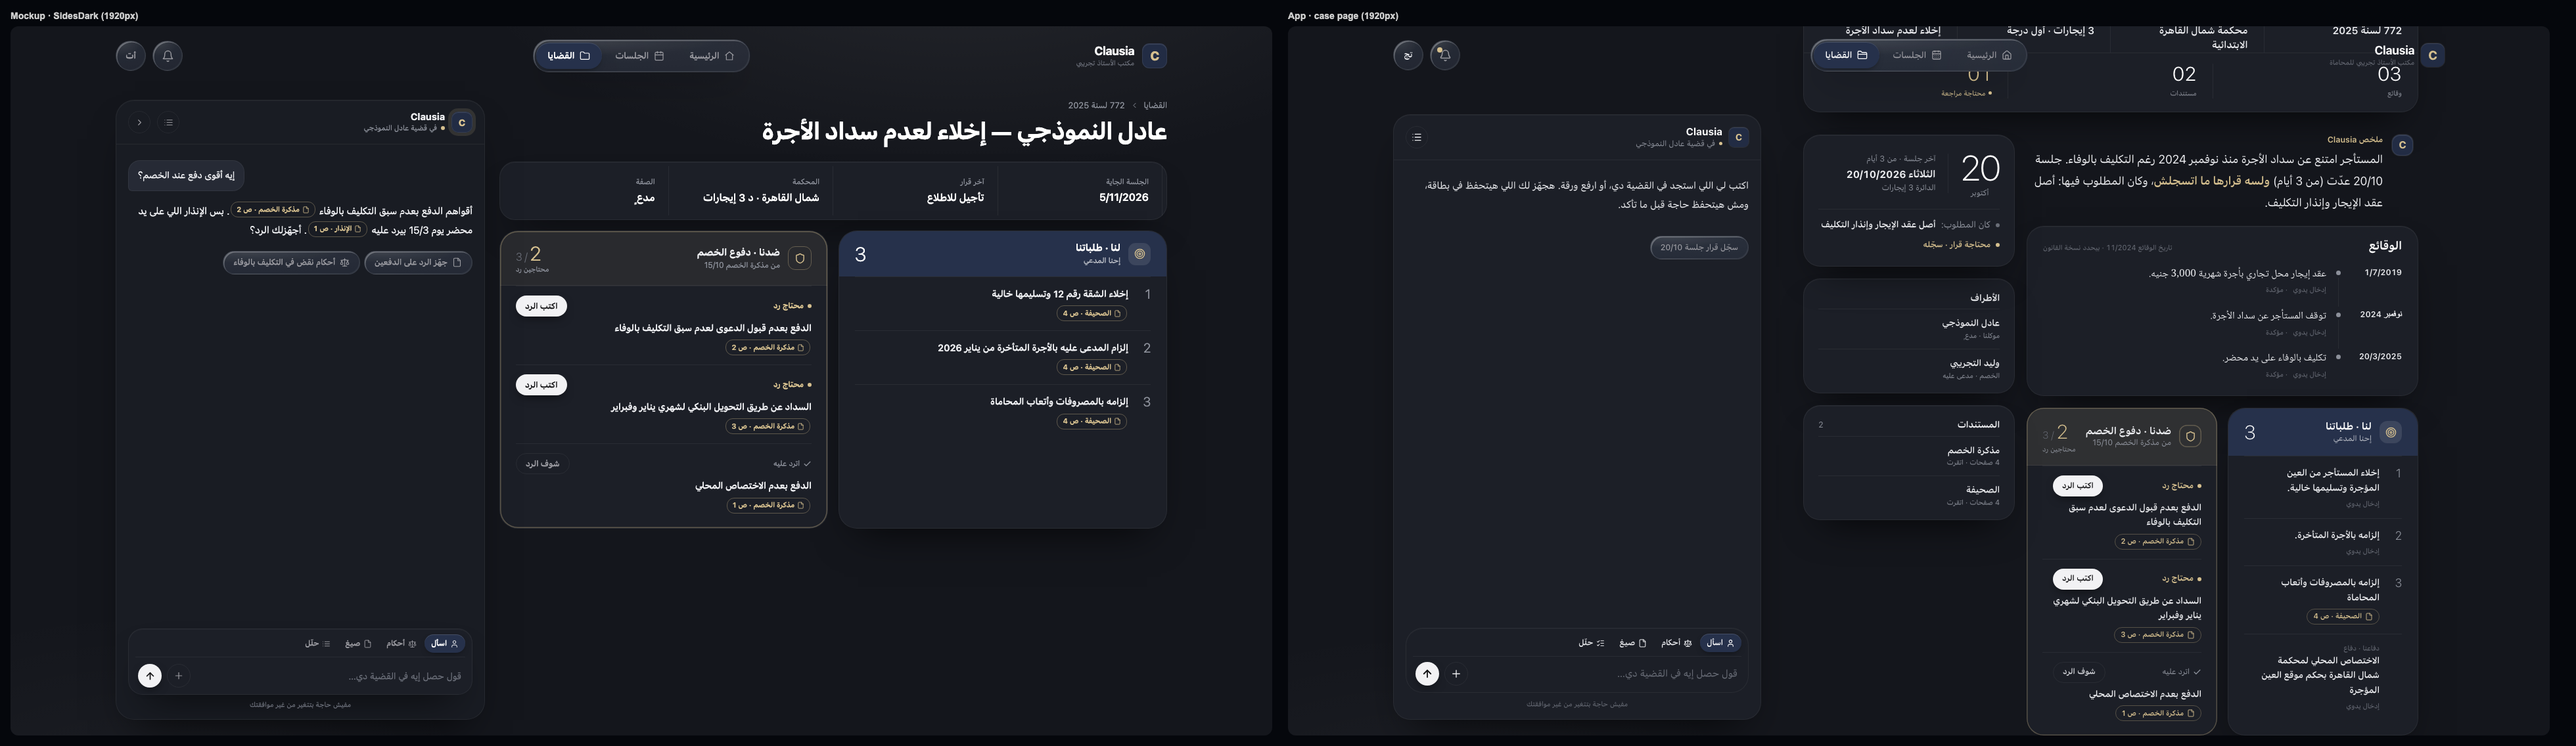
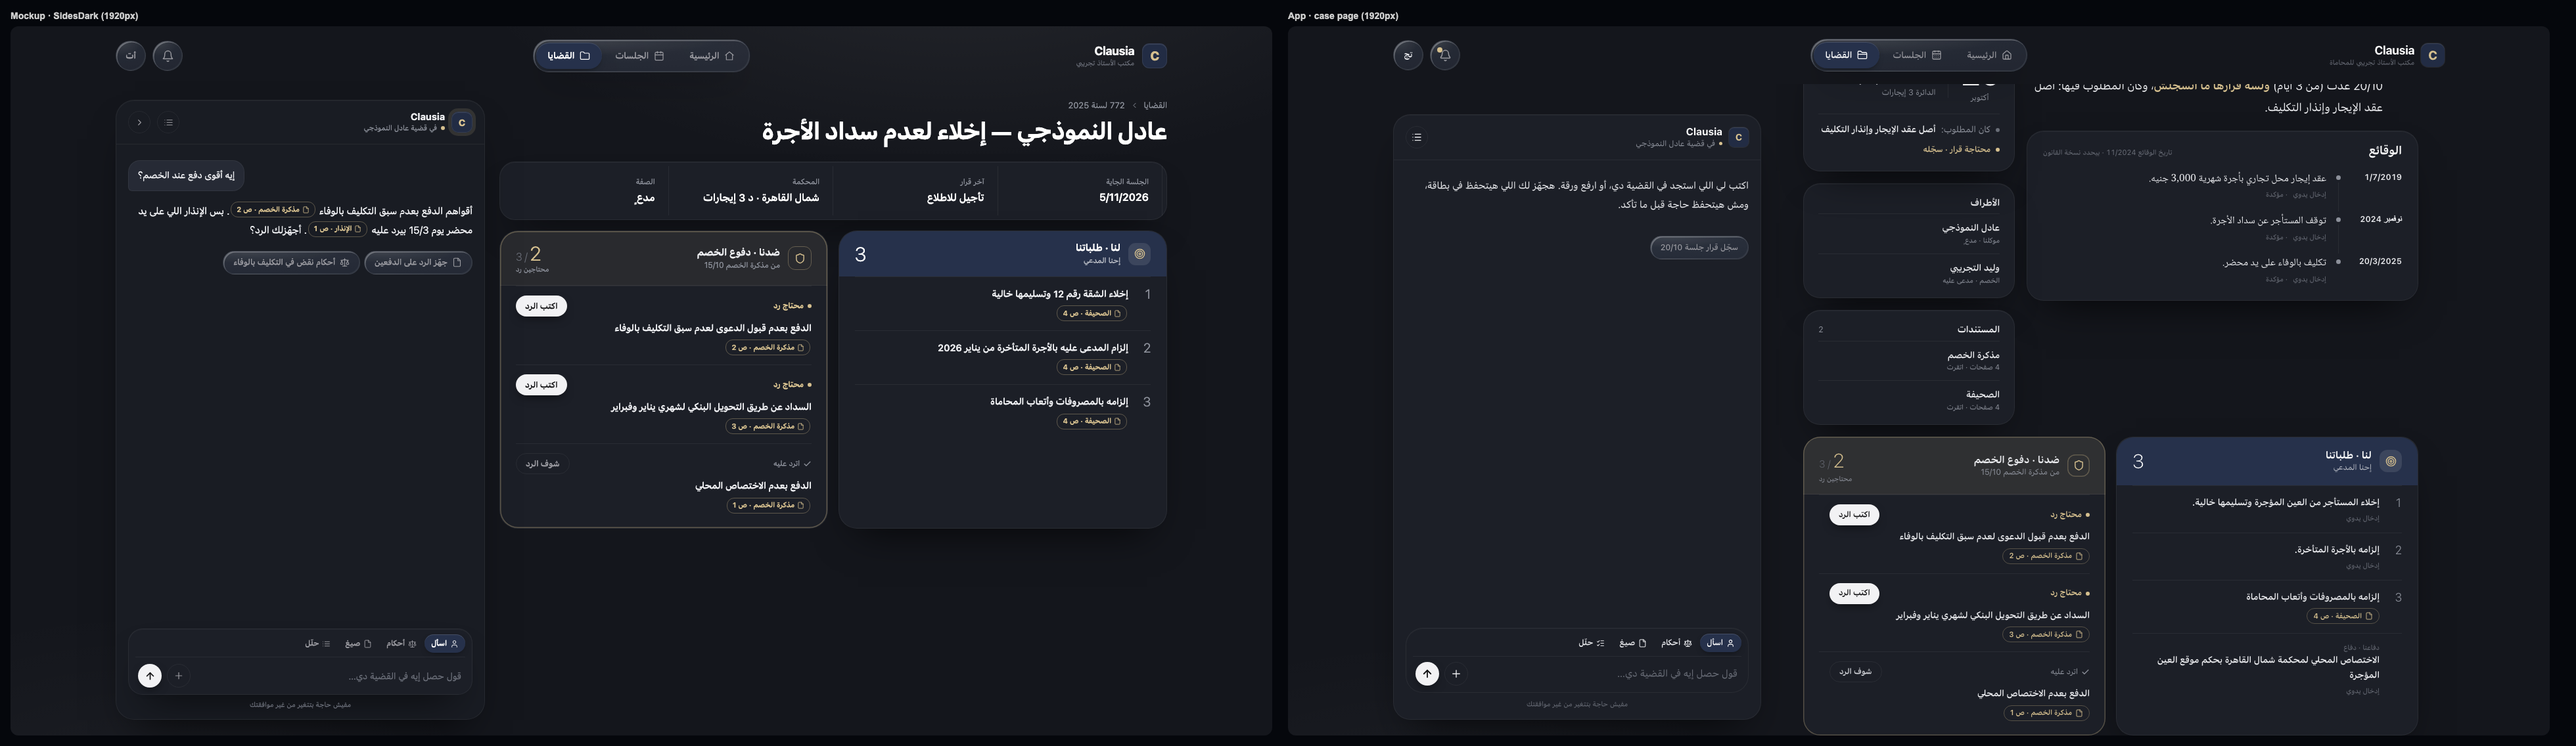
Screenshots: Sides- re-shot with the full-width row and the solid top bar

diff --git a/scripts/sides-shots.ts b/scripts/sides-shots.ts
@@ -105,7 +105,7 @@ try {
     for (const [w, h] of [[1440, 900], [1920, 1080], [2560, 1440]] as const) {
       const [ctx, page] = await ctxOf(w, h, dark);
       await go(page);
-      await toSides(page, w === 1920 ? 312 : 120);
+      await toSides(page, 130);
       await shot(page, `Sides-${w}-${t}`);
       if (w === 1920) await compare(`${OUT}/Sides-1920-${t}.png`, `screenshots/mockups/split/${dark ? "SidesDark" : "SidesLight"}.png`, `${OUT}/Sides-compare-1920-${t}.png`, dark);
       await ctx.close();
@@ -124,7 +124,7 @@ try {
   {
     const [ctx, page] = await ctxOf(1920, 1080, false);
     await go(page);
-    await toSides(page, 312);
+    await toSides(page, 130);
     const needs = page.locator('section[aria-label="ضدنا · دفوع الخصم"] button', { hasText: "اكتب الرد" });
     console.log("«اكتب الرد» buttons:", await needs.count());
     const box = await page.locator('section[aria-label="ضدنا · دفوع الخصم"] button', { hasText: "اكتب الرد" }).first().boundingBox();
@@ -136,7 +136,7 @@ try {
     console.log(`after «اكتب الرد»: box = «${text}», focused = ${await page.evaluate(() => document.activeElement?.tagName)}, sheet open = ${await page.locator("dialog[open]").count()}, chip mentions = ${chips}`);
     await shot(page, "Sides-write-reply-1920-light");
     await go(page);
-    await toSides(page, 312);
+    await toSides(page, 130);
     await page.locator('section[aria-label="ضدنا · دفوع الخصم"] a', { hasText: "شوف الرد" }).first().click();
     await page.waitForTimeout(700);
     console.log(`after «شوف الرد»: open sheet = ${await page.locator("dialog[open]").count()}, url hash = ${new URL(page.url()).hash}, expected #item-${f.reply}`);
